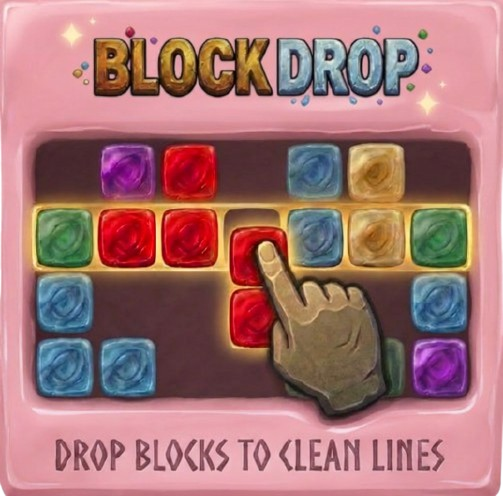
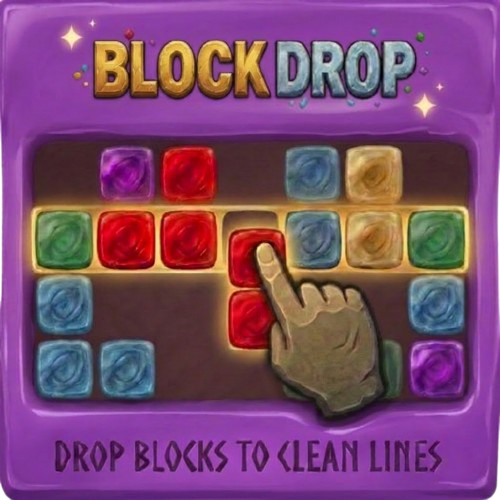
webpage improvements

diff --git a/puzzle-competition.html b/puzzle-competition.html
@@ -23,6 +23,7 @@
             --cyan: #06b6d4;
             --green: #22c55e;
             --red: #ef4444;
+            --purple: #a855f7;
         }
 
         html { scroll-behavior: smooth; }
@@ -141,8 +142,9 @@
             padding: 36px;
             display: flex; flex-direction: column;
         }
-        .game-face-front.tap  { border-top: 3px solid var(--accent); }
-        .game-face-front.block { border-top: 3px solid var(--blue); }
+        .game-face-front.tap   { border: 1px solid var(--accent); }
+        .game-face-front.block { border: 1px solid var(--purple); }
+        .game-face-front.fire  { border: 1px solid var(--gold); }
         .game-face-back {
             transform: rotateY(180deg);
             background: #000;
@@ -160,12 +162,12 @@
             pointer-events: none;
         }
 
-        /* GAMES: TAP BLITZ + BLOCK DROP */
+        /* GAMES GRID */
         .games-split {
             display: grid; grid-template-columns: 1fr 1fr 1fr; gap: 24px;
         }
         .game-face-front.construction {
-            border-top: 3px solid var(--muted);
+            border: 1px solid var(--border);
             display: flex; flex-direction: column;
             align-items: center; justify-content: center;
             text-align: center; gap: 16px;
@@ -195,11 +197,7 @@
             cursor: pointer;
         }
         .game-panel.flipped { transform: rotateY(180deg); }
-        .game-panel.tap  { border-top: 3px solid var(--accent); }
-        .game-panel.block { border-top: 3px solid var(--blue); }
         .preview-hint { font-size: 0.72rem; color: var(--muted); opacity: 0.6; margin-top: auto; padding-top: 16px; }
-        .game-panel.tap { border-top: 3px solid var(--accent); }
-        .game-panel.block { border-top: 3px solid var(--blue); }
         .game-panel-header {
             display: flex; align-items: center; gap: 14px; margin-bottom: 24px;
         }
@@ -210,7 +208,8 @@
         .game-icon img { width: 100%; height: 100%; object-fit: cover; display: block; }
         .game-panel h3 { font-family: 'Fredoka', sans-serif; font-size: 1.5rem; font-weight: 600; }
         .game-panel .game-sub { font-size: 0.8rem; color: var(--accent2); font-weight: 500; }
-        .game-panel.block .game-sub { color: #60a5fa; }
+        .game-panel.block .game-sub { color: #c084fc; }
+        .game-panel.fire  .game-sub { color: var(--gold); }
 
         .game-panel p { color: var(--muted); margin-bottom: 20px; font-size: 0.95rem; }
 
@@ -220,7 +219,8 @@
             font-size: 0.9rem; color: var(--muted);
         }
         .spec-list li::before { content: '→'; color: var(--accent); flex-shrink: 0; font-weight: 700; }
-        .game-panel.block .spec-list li::before { color: var(--blue); }
+        .game-panel.block .spec-list li::before { color: var(--purple); }
+        .game-panel.fire  .spec-list li::before { color: var(--gold); }
         .spec-list li strong { color: var(--text); }
 
         .special-tiles { display: flex; flex-wrap: wrap; gap: 8px; margin-top: 20px; }
@@ -480,7 +480,7 @@
 <section class="hero">
     <div class="hero-badge">📱 Available on Android</div>
     <h1>Puzzle Competition</h1>
-    <p class="tagline">Two addictive puzzle games. One daily battleground. Compete against players worldwide for leaderboard glory.</p>
+    <p class="tagline">Three addictive puzzle games. One daily battleground. Compete against players worldwide for leaderboard glory.</p>
     <div class="hero-cta">
         <a href="#" class="btn btn-primary">Get on Google Play</a>
         <a href="#games" class="btn btn-outline">See the Games ↓</a>
@@ -499,9 +499,9 @@
 <!-- GAMES -->
 <div class="section" id="games">
     <div class="section-header">
-        <p class="section-label">Two Games</p>
+        <p class="section-label">Three Games</p>
         <h2 class="section-title">Pick your puzzle</h2>
-        <p class="section-sub">Each game has its own strategy, scoring system, and special tiles — but both share the same daily competitive arena.</p>
+        <p class="section-sub">Each game has its own strategy, scoring system, and mechanics — but all share the same daily competitive arena.</p>
     </div>
 
     <div class="games-split">
@@ -549,9 +549,7 @@
                     <div class="game-tags">
                         <span class="game-tag">8×8 grid</span>
                         <span class="game-tag">3 preview pieces</span>
-                        <span class="game-tag">No timer</span>
                         <span class="game-tag">Combo clears</span>
-                        <span class="game-tag">Infinite casual</span>
                     </div>
                     <p class="preview-hint">click to watch gameplay →</p>
                 </div>
@@ -562,7 +560,34 @@
             </div>
         </div>
 
-        <!-- THIRD GAME — IN CONSTRUCTION -->
+        <!-- FIREBALL -->
+        <div class="game-flip-wrap">
+            <div class="game-panel fire" onclick="flipGame(this)">
+                <div class="game-face game-face-front fire">
+                    <div class="game-panel-header">
+                        <div class="game-icon"><img src="assets/Puzzle Competition/game_icons/fire_ball.png" alt="Fireball"></div>
+                        <div>
+                            <h3>Fireball</h3>
+                            <div class="game-sub">Available May 17, 2026</div>
+                        </div>
+                    </div>
+                    <p>Launch fireballs to clear every tile off the 8×8 board. Aim carefully, chain reactions, and burn them all.</p>
+                    <div class="game-tags">
+                        <span class="game-tag">8×8 grid</span>
+                        <span class="game-tag">Ball physics</span>
+                        <span class="game-tag">Chain reactions</span>
+                        <span class="game-tag">Daily challenge</span>
+                    </div>
+                    <p class="preview-hint">click to watch gameplay →</p>
+                </div>
+                <div class="game-face game-face-back">
+                    <video src="assets/Puzzle Competition/game_recordings/fire_ball.mp4" muted playsinline loop></video>
+                    <div class="flip-back-hint">click to go back</div>
+                </div>
+            </div>
+        </div>
+
+        <!-- FOURTH GAME — IN CONSTRUCTION -->
         <div class="game-flip-wrap">
             <div class="game-panel">
                 <div class="game-face game-face-front construction">

diff --git a/CLAUDE.md b/CLAUDE.md
@@ -1,0 +1,63 @@
+# CLAUDE.md
+
+This file provides guidance to Claude Code (claude.ai/code) when working with code in this repository.
+
+## Project overview
+
+Static marketing website for **LeonAI**, an indie mobile game studio. The site showcases the *Puzzle Competition* Android app. There is no build system, no package manager, and no JavaScript framework — everything is plain HTML, CSS, and JS written inline in each file.
+
+## Testing locally
+
+```bash
+python3 -m http.server 8000
+# then open http://localhost:8000
+```
+
+Alternatively, use the VS Code **Live Server** extension (right-click any `.html` → Open with Live Server). Opening via `file://` works for layout but the browser may block the `<video>` assets.
+
+## Architecture
+
+All CSS and JS live inline inside `<style>` and `<script>` tags within each HTML file — there are no external `.css` or `.js` files.
+
+### Design system
+
+Every page uses the same CSS custom properties (defined in `:root`):
+
+| Variable | Purpose |
+|---|---|
+| `--bg` / `--surface` / `--surface2` | Dark navy backgrounds |
+| `--text` / `--muted` | Primary and secondary text |
+| `--accent` / `--accent2` | Blue CTA colours |
+| `--gold`, `--blue`, `--cyan`, `--green`, `--red` | Per-game and per-mode accent colours |
+
+Fonts: **Inter** (body) and **Fredoka** (headings/display), loaded from Google Fonts.
+
+### Game cards in `puzzle-competition.html`
+
+Games are displayed in a 3-column CSS grid (`.games-split`), collapsing to 2 columns below 900px. Each card is a `.game-panel` with a colour-modifier class (`tap`, `block`, `fire`). That class drives the top border colour, subtitle colour, and arrow colour via scoped CSS rules. The back face of the card contains a `<video>` that plays on flip.
+
+**Adding a new game** requires:
+1. Adding CSS rules for the new modifier class (border, `.game-sub` color, `.spec-list li::before` color).
+2. Adding the HTML card with `onclick="flipGame(this)"` once a video is available; omit the onclick and back face while video is pending.
+3. Updating the section label ("Three Games" → "Four Games") and the hero tagline.
+
+The construction placeholder (slot 4) uses `.game-face-front.construction` — no onclick, no back face.
+
+### Pages
+
+| File | Purpose |
+|---|---|
+| `index.html` | Studio home — about section + game catalogue |
+| `puzzle-competition.html` | App landing page — game cards, modes, leaderboard preview |
+| `puzzle-competition-privacy-policy.html` | Privacy policy |
+| `google09796cf65f7c4c90.html` | Google Search Console verification (do not edit) |
+
+### Assets
+
+```
+assets/Puzzle Competition/
+  game_icons/       # PNG icons per game (used in cards and og tags)
+  game_recordings/  # MP4 gameplay videos (used in card back faces)
+  gems/             # PNG gem images shown in the hero row
+  game_construction.png  # placeholder image for unreleased games
+```

diff --git a/README.md b/README.md
@@ -1,1 +1,30 @@
-# puzzle-competition-privacy-policy
+# LeonAI — Puzzle Competition
+
+Static website for the **Puzzle Competition** app — includes the landing page, privacy policy, and game showcase.
+
+## Testing Locally
+
+This is a plain static site (HTML + CSS + JS). No build step needed.
+
+### Option A — Python (nothing to install)
+
+```bash
+python3 -m http.server 8000
+```
+
+Then open [http://localhost:8000](http://localhost:8000) in your browser.
+
+### Option B — VS Code Live Server
+
+1. Install the [Live Server](https://marketplace.visualstudio.com/items?itemName=ritwickdey.LiveServer) extension.
+2. Right-click any `.html` file in the Explorer → **Open with Live Server**.
+
+> **Note:** Opening files directly via `file://` works for basic layout checks, but the browser may block video assets (`<video>` tags). Use one of the options above to test gameplay previews correctly.
+
+## Pages
+
+| File | URL |
+|---|---|
+| `index.html` | `/` — LeonAI home |
+| `puzzle-competition.html` | `/puzzle-competition.html` — App landing page |
+| `puzzle-competition-privacy-policy.html` | `/puzzle-competition-privacy-policy.html` — Privacy policy |